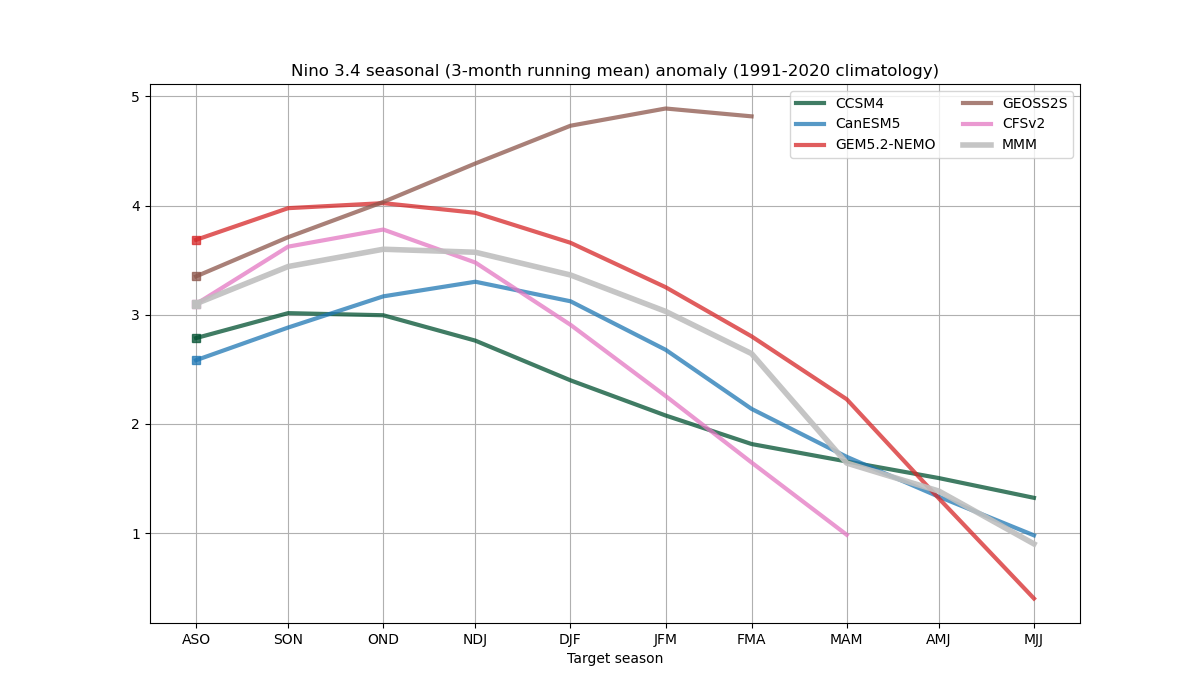
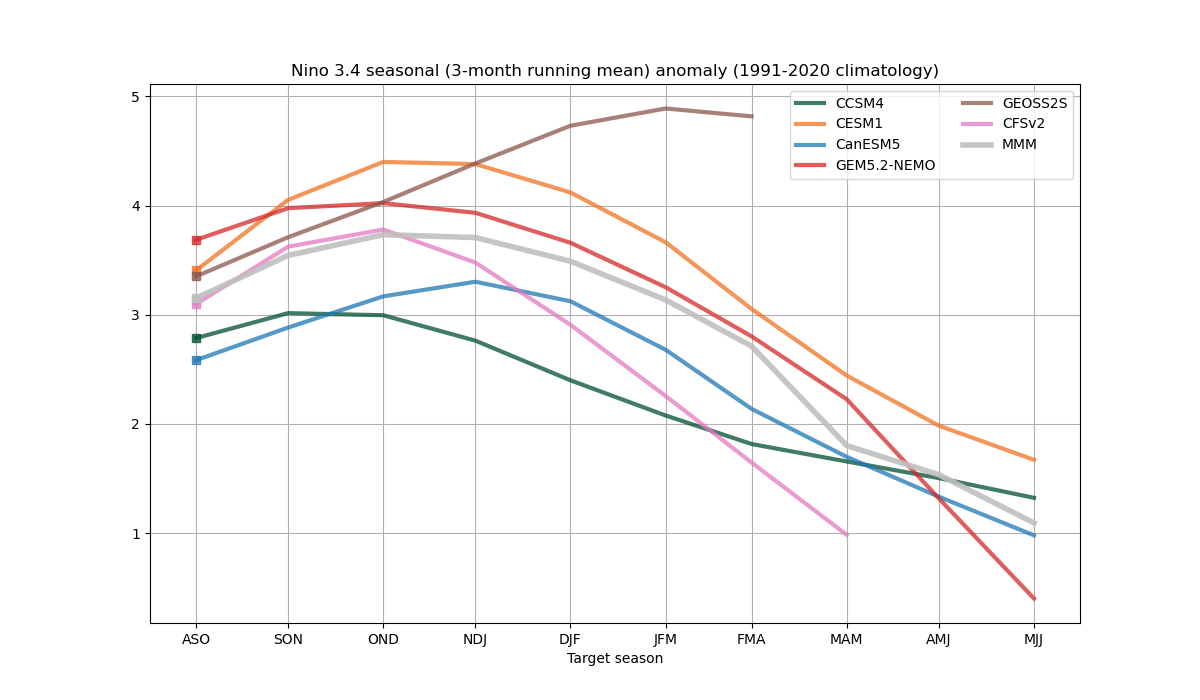
Refresh latest-forecast figures: COLA-RSMAS-CESM1 joins the 2026-08 init
COLA-RSMAS-CESM1 posted its August initialization upstream, so the MMM for
the 2026-08 start is now 6 models rather than 5. CESM1 is one of the warmer
members (peaking at +4.53 degC at lead 3.5), so the MMM rose across every
lead: NDJ 3.57 -> 3.71, DJF 3.36 -> 3.49. Ranks shifted with it, since the
ranking climatology is rebuilt from whichever model set the current forecast
has (Jul 2027 n34 rank 11 -> 5).

GFDL-SPEAR still has no August init, consistent with GFDL posting SPEAR only
every second or third month; the load banner reports its same 9 interior
all-NaN starts between 2025-06 and 2026-06.

Regenerated artifacts only; no code change.

diff --git a/plots/latest_forecast/latest_forecast_summary.md b/plots/latest_forecast/latest_forecast_summary.md
@@ -6,17 +6,17 @@ Multi-model-mean (MMM) anomaly for the 12-lead forecast initialized August 2026,
 
 | | Aug 2026 | Sep 2026 | Oct 2026 | Nov 2026 | Dec 2026 | Jan 2027 | Feb 2027 | Mar 2027 | Apr 2027 | May 2027 | Jun 2027 | Jul 2027 |
 |---|---|---|---|---|---|---|---|---|---|---|---|---|
-| n34 anom | 2.68 | 3.15 | 3.47 | 3.70 | 3.63 | 3.39 | 3.08 | 2.62 | 2.23 | 1.20 | 0.80 | 0.40 |
-| n34 rank (n=36) | 1 | 1 | 1 | 1 | 1 | 1 | 1 | 1 | 1 | 1 | 1 | 11 |
-| n34r anom | 2.02 | 2.34 | 2.70 | 3.02 | 2.95 | 2.59 | 2.11 | 1.42 | 0.94 | 0.44 | 0.12 | -0.31 |
-| n34r rank (n=36) | 1 | 1 | 1 | 1 | 1 | 2 | 1 | 1 | 1 | 4 | 16 | 30 |
+| n34 anom | 2.67 | 3.19 | 3.60 | 3.84 | 3.76 | 3.52 | 3.19 | 2.69 | 2.25 | 1.34 | 1.01 | 0.66 |
+| n34 rank (n=36) | 1 | 1 | 1 | 1 | 1 | 1 | 1 | 1 | 1 | 1 | 1 | 5 |
+| n34r anom | 2.03 | 2.37 | 2.77 | 3.07 | 3.01 | 2.66 | 2.17 | 1.45 | 0.95 | 0.51 | 0.24 | -0.11 |
+| n34r rank (n=36) | 1 | 1 | 1 | 1 | 1 | 2 | 1 | 1 | 1 | 4 | 9 | 23 |
 
 ## Seasonal (3-month running mean)
 
 | | ASO | SON | OND | NDJ | DJF | JFM | FMA | MAM | AMJ | MJJ |
 |---|---|---|---|---|---|---|---|---|---|---|
-| n34 anom | 3.10 | 3.44 | 3.60 | 3.57 | 3.36 | 3.03 | 2.64 | 1.64 | 1.38 | 0.90 |
+| n34 anom | 3.15 | 3.54 | 3.73 | 3.71 | 3.49 | 3.14 | 2.71 | 1.80 | 1.53 | 1.09 |
 | n34 rank (n=36) | 1 | 1 | 1 | 1 | 1 | 1 | 1 | 1 | 1 | 1 |
-| n34r anom | 2.36 | 2.69 | 2.89 | 2.86 | 2.56 | 2.06 | 1.49 | 0.80 | 0.59 | 0.20 |
-| n34r rank (n=36) | 1 | 1 | 1 | 1 | 1 | 1 | 1 | 1 | 2 | 10 |
+| n34r anom | 2.40 | 2.74 | 2.95 | 2.92 | 2.62 | 2.10 | 1.51 | 0.85 | 0.63 | 0.30 |
+| n34r rank (n=36) | 1 | 1 | 1 | 1 | 1 | 1 | 1 | 1 | 1 | 7 |
 
